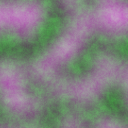
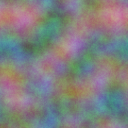
Whatever

diff --git a/Source/Utility.cpp b/Source/Utility.cpp
@@ -1,0 +1,41 @@
+#include "Utility.hpp"
+
+#include <algorithm>
+#include <random>
+
+static std::random_device Dev;
+static std::mt19937 RNG(Dev());
+static std::uniform_real_distribution<float> NormalizedDistribution(0.0f, 1.0f);
+
+float Utility::GetRandomFloat() {
+    return NormalizedDistribution(RNG);
+}
+
+float Utility::SmoothDamp(float Current, float Target, float SmoothTime, float MaxSpeed, float DeltaTime) {
+    float CurrentVelocity = 0.0f;
+    // Based on Game Programming Gems 4 Chapter 1.10
+    SmoothTime = std::max(0.0001F, SmoothTime);
+    float Omega = 2.0f / SmoothTime;
+
+    float X = Omega * DeltaTime;
+    float Exp = 1.0f / (1.0f + X + 0.48f * X * X + 0.235f * X * X * X);
+    float Change = Current - Target;
+    float OriginalTo = Target;
+
+    // Clamp maximum speed
+    float MaxChange = MaxSpeed * SmoothTime;
+    Change = std::clamp(Change, -MaxChange, MaxChange);
+    Target = Current - Change;
+
+    float Temp = (CurrentVelocity + Omega * Change) * DeltaTime;
+    CurrentVelocity = (CurrentVelocity - Omega * Temp) * Exp;
+    float Output = Target + (Change + Temp) * Exp;
+
+    // Prevent overshooting
+    if (OriginalTo - Current > 0.0f == Output > OriginalTo) {
+        Output = OriginalTo;
+        CurrentVelocity = (Output - OriginalTo) / DeltaTime;
+    }
+
+    return Output;
+}

diff --git a/Source/Draw.cpp b/Source/Draw.cpp
@@ -8,6 +8,7 @@
 #include <glm/gtc/matrix_transform.hpp>
 #include "Level.hpp"
 #include "Constants.hpp"
+#include "Utility.hpp"
 #include "ShaderConstants.hpp"
 
 #define STB_IMAGE_IMPLEMENTATION
@@ -333,6 +334,7 @@ void SRenderer::Init(int Width, int Height) {
     /** Initialize queues */
     Queue2D.Init(32);
     Queue2D.CommonUniformBlock.SetVector2(0, {static_cast<float>(Width), static_cast<float>(Height)});
+    Queue2D.CommonUniformBlock.SetFloat(12, Utility::GetRandomFloat());
 
     Queue3D.Init(sizeof(glm::mat4x4) * 2);
 
@@ -510,6 +512,19 @@ SRenderer::Draw2DEx(glm::vec3 Position, const SSpriteHandle &SpriteHandle, int M
     Entry.UVRect = SpriteHandle.Sprite->UVRect;
 
     Entry.Mode = SEntryMode{.ID = Mode, .ControlA = ModeControlA};
+
+    Queue2D.Enqueue(Entry);
+}
+
+void
+SRenderer::Draw2DEx(glm::vec3 Position, const SSpriteHandle &SpriteHandle, int Mode, glm::vec4 ModeControlA, glm::vec4 ModeControlB) {
+    SEntry2D Entry;
+    Entry.Program2DType = EProgram2DType::Simple2D;
+    Entry.Position = Position;
+    Entry.SizePixels = SpriteHandle.Sprite->SizePixels;
+    Entry.UVRect = SpriteHandle.Sprite->UVRect;
+
+    Entry.Mode = SEntryMode{.ID = Mode, .ControlA = ModeControlA, .ControlB = ModeControlB};
 
     Queue2D.Enqueue(Entry);
 }

diff --git a/Source/Player.cpp b/Source/Player.cpp
@@ -1,15 +1,15 @@
 #include <iostream>
 #include "Player.hpp"
-#include "Utils.hpp"
+#include "Utility.hpp"
 
 #define EYE_HEIGHT 0.4f
 
 void SPlayer::Update(float DeltaTime) {
-    EyePositionCurrent = Utils::InterpolateToConstant(EyePositionCurrent, EyePositionTarget, DeltaTime, 4.0f);
-    EyeForwardCurrent = Utils::InterpolateToConstant(EyeForwardCurrent, EyeForwardTarget, DeltaTime, 4.0f);
+    EyePositionCurrent = Utility::InterpolateToConstant(EyePositionCurrent, EyePositionTarget, DeltaTime, 4.0f);
+    EyeForwardCurrent = Utility::InterpolateToConstant(EyeForwardCurrent, EyeForwardTarget, DeltaTime, 4.0f);
 }
 
-SPlayer::SPlayer() {
+SPlayer::SPlayer() : Direction(0) {
     EyePositionCurrent = EyePositionTarget = {static_cast<float>(X), EYE_HEIGHT, static_cast<float>(Y)};
     SetDirection(Direction, true);
 }

diff --git a/Source/Utility.hpp b/Source/Utility.hpp
@@ -1,0 +1,22 @@
+#pragma once
+
+#include "glm/geometric.hpp"
+
+namespace Utility {
+    float GetRandomFloat();
+
+    static float SmoothDamp(float Current, float Target, float SmoothTime, float MaxSpeed, float DeltaTime);
+
+    template<typename genType>
+    constexpr static auto InterpolateToConstant(genType Current, genType Target, float DeltaTime, float InterpSpeed) {
+        if (InterpSpeed <= 0.0f) {
+            return static_cast<genType>(Target);
+        }
+        const auto Dist = glm::distance(Target, Current);
+        if (Dist * Dist < 0.00001f) {
+            return static_cast<genType>(Target);
+        }
+        const auto Step = DeltaTime * InterpSpeed;
+        return Current + glm::clamp((Target - Current), -Step, Step);
+    }
+}

diff --git a/Source/Game.cpp b/Source/Game.cpp
@@ -122,7 +122,9 @@ void SGame::Run() {
 
         Renderer.UploadProjectionAndViewFromCamera(Camera);
         Renderer.Draw3D({0.0f, 0.0f, 0.0f}, &LevelGeometry);
-        Renderer.Draw2D({30.0f - 4, 50.0f, 0.0f}, AngelSprite);
+        Renderer.Draw2DEx({30.0f - 4, 50.0f, 0.0f}, AngelSprite, SIMPLE2D_MODE_DISINTEGRATE_PLASMA,
+                          {Window.Seconds / 3.0, 0.9f, 0.2f, 0.1f},
+                          NoiseSprite.Sprite->UVRect);
         Renderer.Draw2DHaze({85 - 4, 50.0f, 0.0f}, AngelSprite, 0.07f, 4.0f, 4.0f);
         Renderer.Draw2DBackBlur({140 - 4, 50.0f, 0.0f}, AngelSprite, 4.0f, 2.9f, 0.08f);
         Renderer.Draw2DGlow({195 - 4, 50.0f, 0.0f}, AngelSprite, glm::vec3(1.0f, 1.0f, 1.0f), 2.0f);

diff --git a/Source/Draw.hpp b/Source/Draw.hpp
@@ -266,6 +266,8 @@ struct SRenderer {
 
     void Draw2DEx(glm::vec3 Position, const SSpriteHandle &SpriteHandle, int Mode, glm::vec4 ModeControlA);
 
+    void Draw2DEx(glm::vec3 Position, const SSpriteHandle &SpriteHandle, int Mode, glm::vec4 ModeControlA, glm::vec4 ModeControlB);
+
     void Draw2DHaze(glm::vec3 Position, const SSpriteHandle &SpriteHandle, float XIntensity, float YIntensity, float Speed);
 
     void Draw2DBackBlur(glm::vec3 Position, const SSpriteHandle &SpriteHandle, float Count, float Speed, float Step);

diff --git a/Source/ShaderConstants.hpp b/Source/ShaderConstants.hpp
@@ -10,6 +10,7 @@ SHADER_CONST(SIMPLE2D_MODE_HAZE, 1)
 SHADER_CONST(SIMPLE2D_MODE_BACK_BLUR, 2)
 SHADER_CONST(SIMPLE2D_MODE_GLOW, 3)
 SHADER_CONST(SIMPLE2D_MODE_DISINTEGRATE, 4)
+SHADER_CONST(SIMPLE2D_MODE_DISINTEGRATE_PLASMA, 5)
 
 SHADER_CONST(HUD_MODE_BORDER_DASHED, 0)
 SHADER_CONST(HUD_MODE_BUTTON, 1)

diff --git a/Source/Player.hpp b/Source/Player.hpp
@@ -5,7 +5,7 @@
 
 struct SPlayer {
     /** Allowed values are 0..3 */
-    unsigned int Direction: 2;
+    unsigned Direction: 2;
     int X{};
     int Y{};
 
